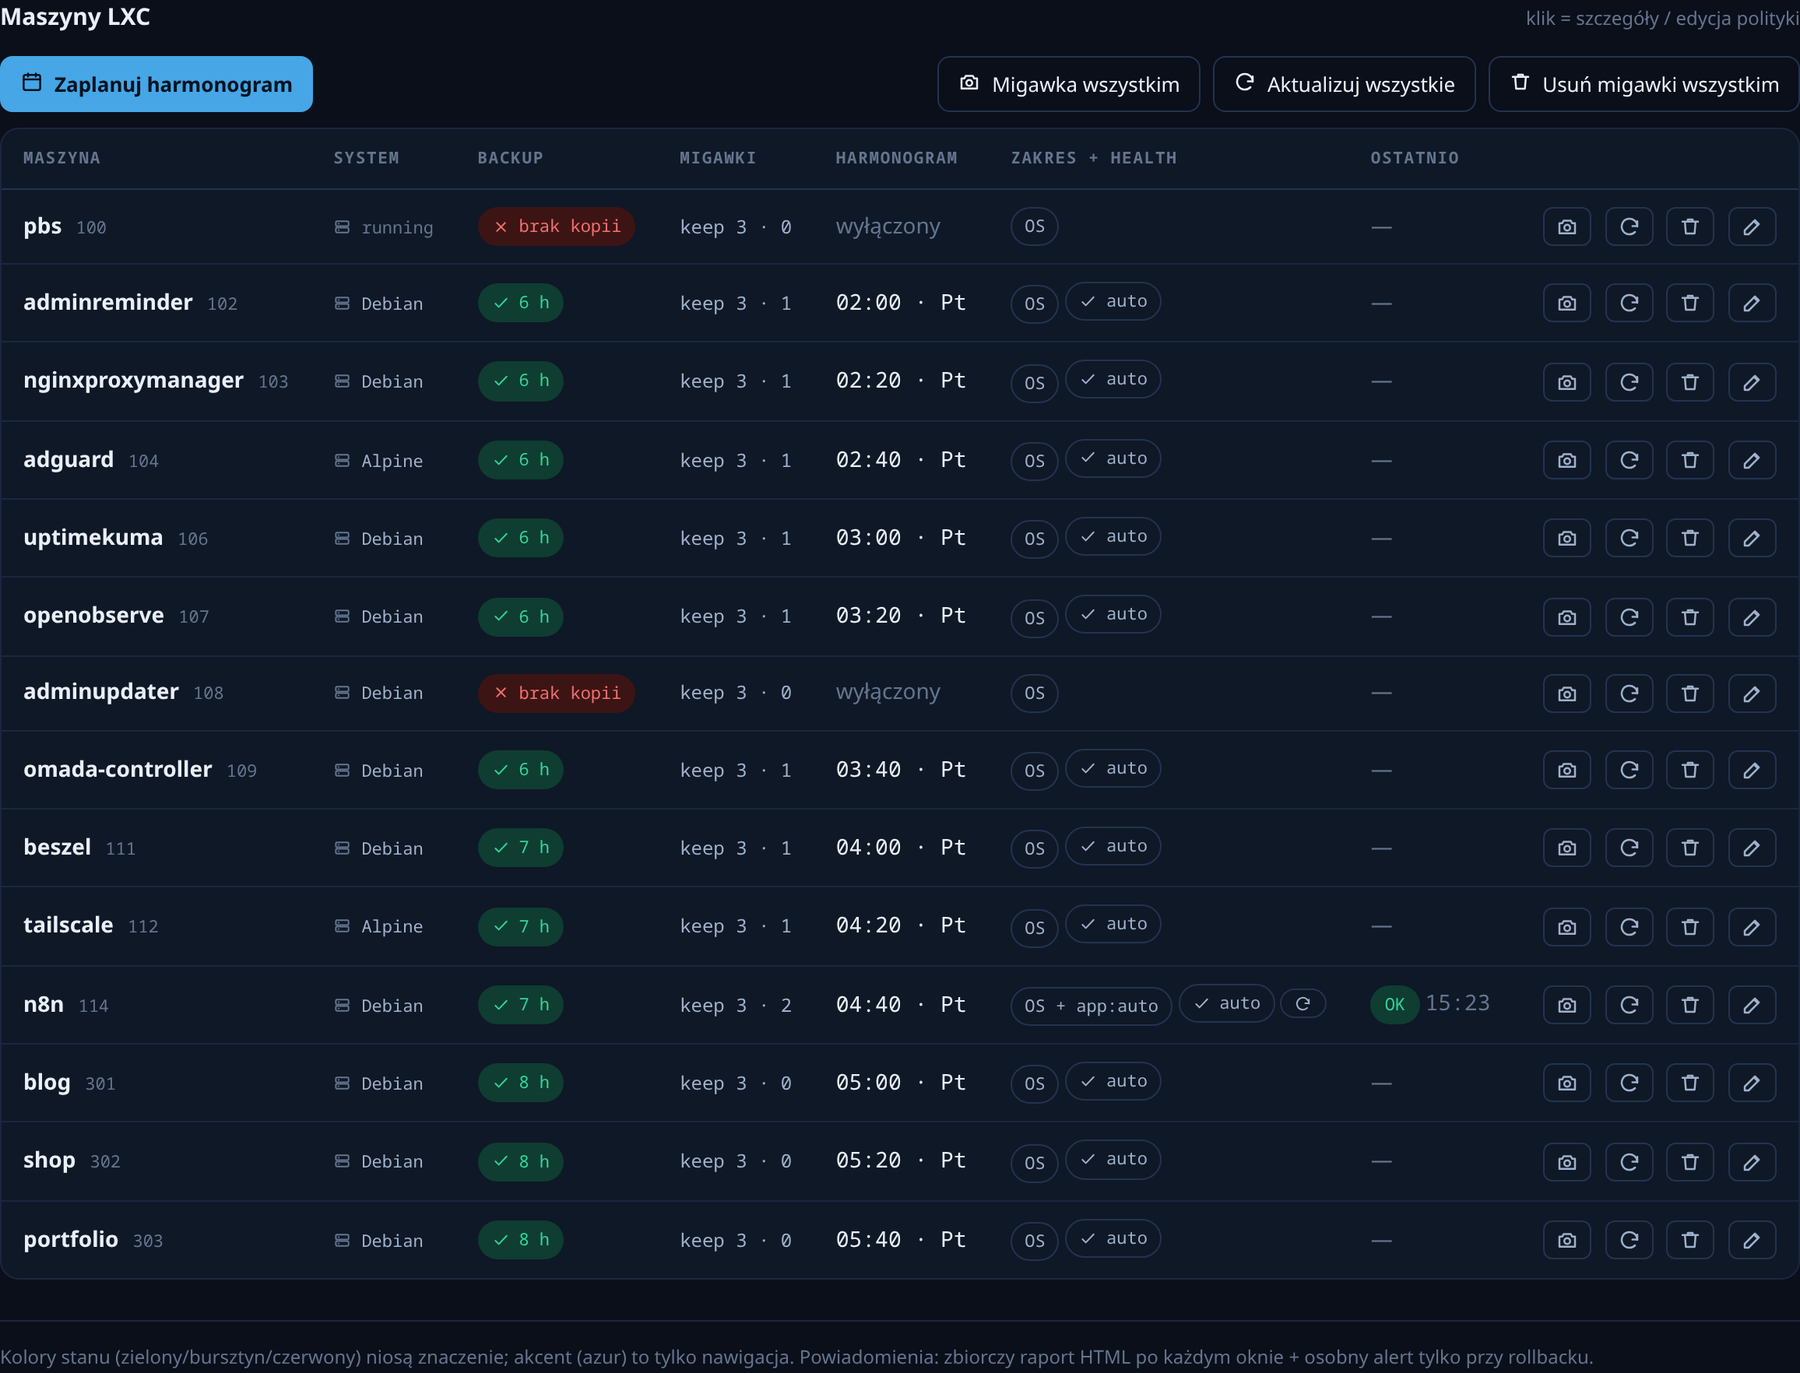
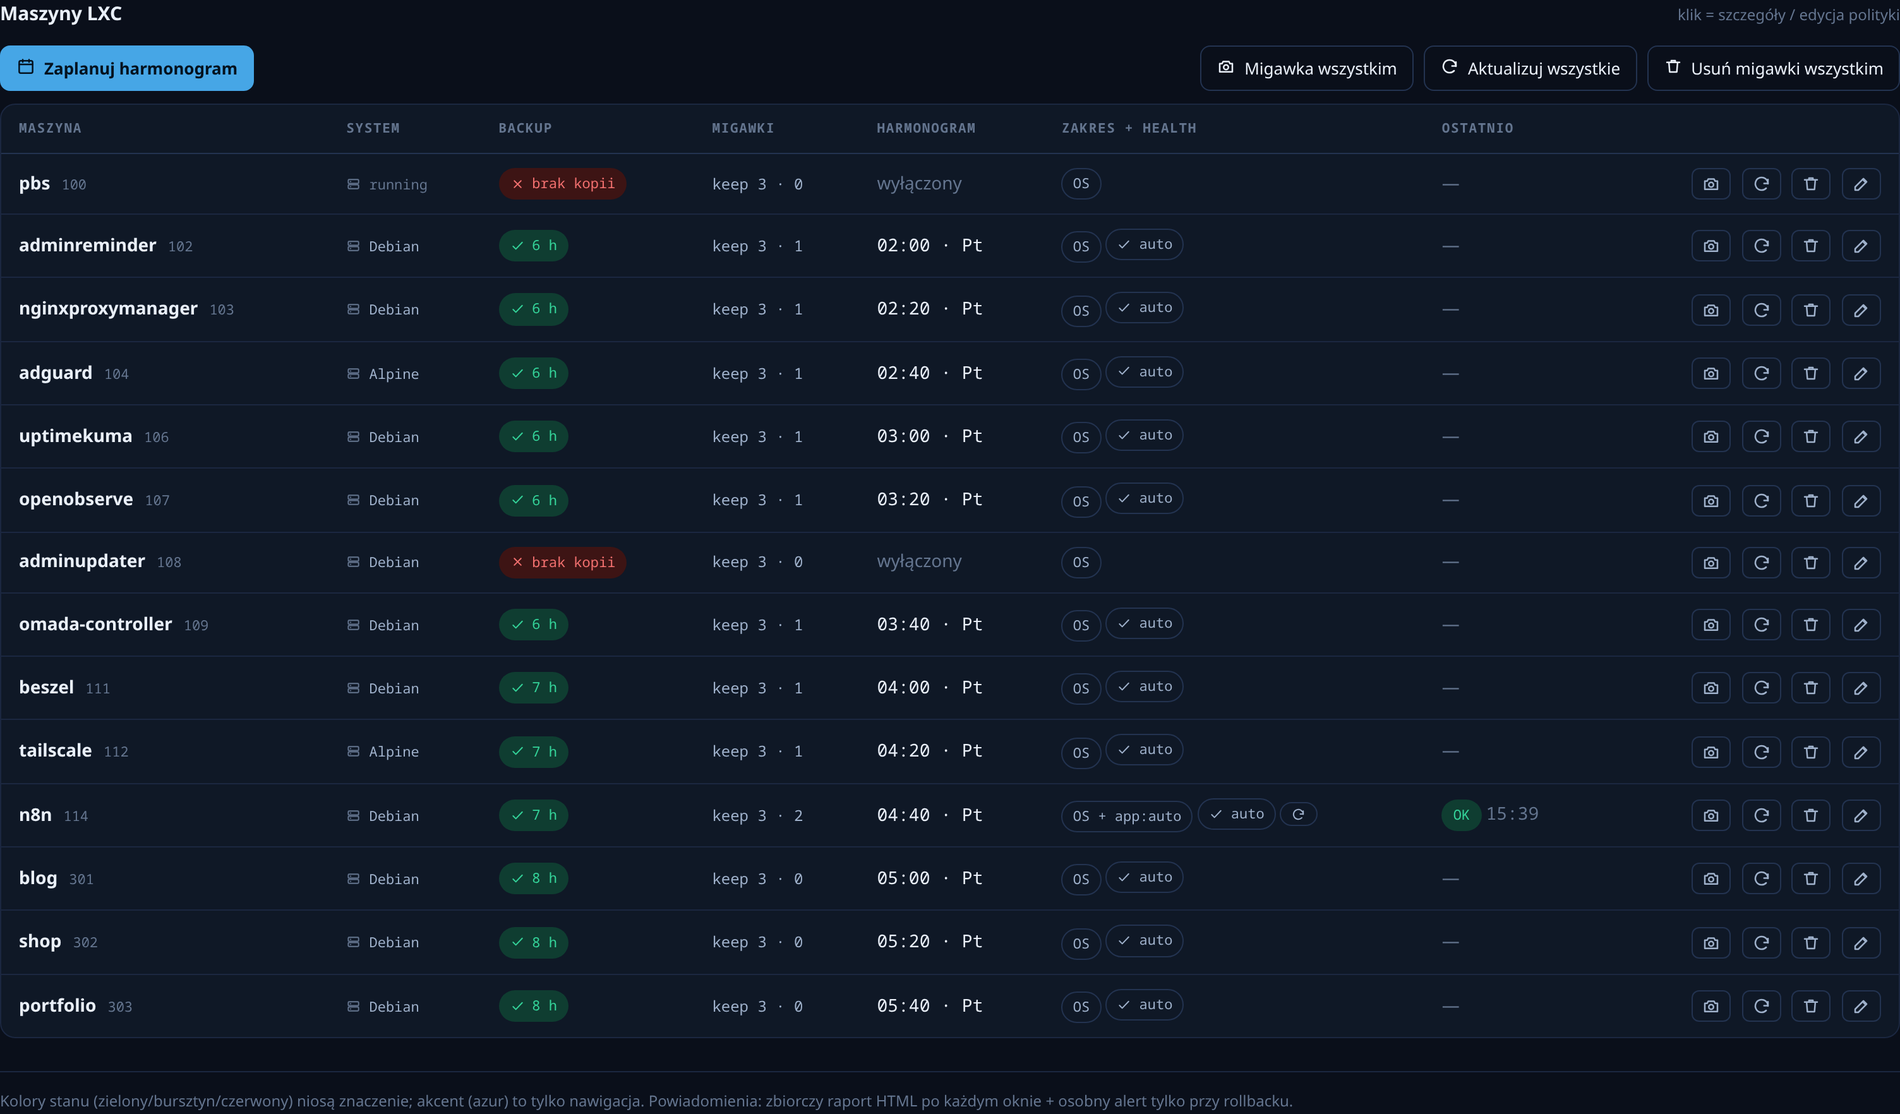
docs: refresh screenshots (wider layout) + add Notifications shot; update email section
Re-render the anonymized dashboard screenshots at the new wider layout and add a
Notifications tab screenshot (settings + live e-mail preview). Update the email
report section to describe the panel-controlled notifications.

diff --git a/README.md b/README.md
@@ -26,6 +26,13 @@ health-check and post-update reboot.
 
 ![LXC machines](docs/dashboard-machines.png)
 
+**Notifications** — pick when to send (every run / only failures / never), the
+grouping (one digest per service window, or one e-mail per machine) and the format
+(HTML or plain text), with a live preview and a one-click **Send test**. Delivery
+rides your Proxmox mail transport — the SMTP server and credentials stay on the host.
+
+![Notifications](docs/notifications.png)
+
 > Screenshots use anonymized demo data.
 
 ## Why the split brain (and why there IS a host component)
@@ -143,10 +150,16 @@ ones: a compromised LXC can *request*, never *force*.
 
 ## Email report (via the Proxmox host's mail)
 
-After each run the host executor can send a styled **HTML report** (per guest:
-snapshot, steps, status, pruned) through the **host's own mail transport**
-(Proxmox postfix/`sendmail` — set up notifications on the host as usual). Configure
-in `host.conf`: `notify_email`, `notify_on = always|errors|never`.
+After each run the host executor sends a report through the **host's own mail
+transport** — it reuses the SMTP target you configured in Proxmox (Datacenter →
+Notifications), so credentials are never entered twice and never live in the panel.
+
+Everything else is set from the **Notifications** tab in the UI: **when** (every run
+/ only on failure+rollback / never), **grouping** (one digest per service window, or
+one e-mail per machine), **format** (styled **HTML** or **plain text**), an optional
+recipient override, a live preview and a **Send test** button. The executor picks
+these up on its next tick. (`host.conf` `notify_email` / `notify_on` still work as a
+fallback if the panel leaves them at defaults.)
 
 ## App recipes
 